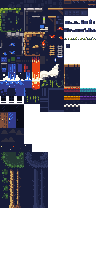
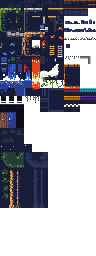
update gdx test to render background iamge

diff --git a/samples/src/main/kotlin/com/lehaine/samples/GdxTest.kt b/samples/src/main/kotlin/com/lehaine/samples/GdxTest.kt
@@ -10,9 +10,12 @@ import com.badlogic.gdx.graphics.GL20
 import com.badlogic.gdx.graphics.OrthographicCamera
 import com.badlogic.gdx.graphics.Texture
 import com.badlogic.gdx.graphics.g2d.SpriteBatch
+import com.badlogic.gdx.graphics.g2d.TextureRegion
 import com.badlogic.gdx.graphics.glutils.ShapeRenderer
+import com.badlogic.gdx.math.Vector2
 import com.badlogic.gdx.utils.viewport.FitViewport
 import com.lehaine.ldtk.LayerIntGrid
+import com.lehaine.ldtk.Level
 
 class GdxApp : ApplicationListener {
 
@@ -24,9 +27,18 @@ class GdxApp : ApplicationListener {
     private lateinit var viewport: FitViewport
     private val world = World()
     private val unitTestWorld = UnitTestWorld()
-    private val worldLevel = world.allLevels[0]
-    private val unitTestWorldLevel = unitTestWorld.allLevels[0]
+
+    private var currentWorldIdx = 0
+    private var worldBgImage: TextureRegion? = null
+    private lateinit var worldLevel: World.WorldLevel
+
+    private var currentUnitTestWorldIdx = 0
+    private var unitTWorldBgImage: TextureRegion? = null
+    private lateinit var unitTestWorldLevel: UnitTestWorld.UnitTestWorldLevel
     private var showWorld = true
+
+    private val velocity = Vector2()
+    private val speed = 5f
 
     override fun create() {
         spriteBatch = SpriteBatch()
@@ -35,7 +47,7 @@ class GdxApp : ApplicationListener {
         unitTestWorldTiles = Texture(Gdx.files.internal("Minecraft_texture_pack.gif"))
         camera = OrthographicCamera()
         viewport = PixelPerfectViewport(480f, 270f, camera)
-        camera.translate(worldLevel.pxWidth / 2f, worldLevel.pxHeight / -2f + 20f)
+        loadLevel(currentWorldIdx)
     }
 
     override fun resize(width: Int, height: Int) {
@@ -47,28 +59,148 @@ class GdxApp : ApplicationListener {
         val bgColor = Color.valueOf(bgColorHex)
         Gdx.gl.glClearColor(bgColor.r, bgColor.g, bgColor.b, bgColor.a)
         Gdx.gl.glClear(GL20.GL_COLOR_BUFFER_BIT)
-        if (Gdx.input.isKeyJustPressed(Input.Keys.S)) {
+        if (Gdx.input.isKeyJustPressed(Input.Keys.ENTER)) {
             showWorld = !showWorld
+            if (showWorld) {
+                loadLevel(currentWorldIdx)
+            } else {
+                loadLevel(currentUnitTestWorldIdx)
+            }
         }
+        if (Gdx.input.isKeyJustPressed(Input.Keys.NUM_1)) {
+            loadLevel(0)
+        }
+        if (Gdx.input.isKeyJustPressed(Input.Keys.NUM_2)) {
+            loadLevel(1)
+        }
+        if (Gdx.input.isKeyJustPressed(Input.Keys.NUM_3)) {
+            loadLevel(2)
+        }
+        if (Gdx.input.isKeyJustPressed(Input.Keys.NUM_4)) {
+            loadLevel(3)
+        }
+
+        velocity.setZero()
+
+        if (Gdx.input.isKeyPressed(Input.Keys.W)) {
+            velocity.y = speed
+        } else if (Gdx.input.isKeyPressed(Input.Keys.S)) {
+            velocity.y = -speed
+        }
+
+        if (Gdx.input.isKeyPressed(Input.Keys.D)) {
+            velocity.x = speed
+        } else if (Gdx.input.isKeyPressed(Input.Keys.A)) {
+            velocity.x = -speed
+        }
+        camera.translate(velocity)
+
         camera.update()
         spriteBatch.projectionMatrix = camera.combined
         shapeRenderer.projectionMatrix = camera.combined
         if (showWorld) {
             spriteBatch.begin()
-            worldLevel.layerCavern_background.render(spriteBatch, worldTiles)
-            worldLevel.layerCollisions.render(spriteBatch, worldTiles)
-            worldLevel.layerCustom_tiles.render(spriteBatch, worldTiles)
+            renderBgImage(spriteBatch, worldLevel)
+            worldLevel.layerCavern_background.render(spriteBatch, worldTiles, worldLevel.pxHeight)
+            worldLevel.layerCollisions.render(spriteBatch, worldTiles, worldLevel.pxHeight)
+            worldLevel.layerCustom_tiles.render(spriteBatch, worldTiles, worldLevel.pxHeight)
             spriteBatch.end()
         } else {
-            shapeRenderer.begin(ShapeRenderer.ShapeType.Filled)
-            renderIntGrid(shapeRenderer, unitTestWorldLevel.layerIntGrid8)
-            renderIntGrid(shapeRenderer, unitTestWorldLevel.layerIntGridTest)
-            shapeRenderer.end()
+//            shapeRenderer.begin(ShapeRenderer.ShapeType.Filled)
+//            renderIntGrid(shapeRenderer, unitTestWorldLevel.layerIntGrid8)
+//            renderIntGrid(shapeRenderer, unitTestWorldLevel.layerIntGridTest)
+//            shapeRenderer.end()
             spriteBatch.begin()
-            unitTestWorldLevel.layerTileTest.render(spriteBatch, unitTestWorldTiles)
-            unitTestWorldLevel.layerPure_AutoLayer.render(spriteBatch, worldTiles)
-            unitTestWorldLevel.layerIntGrid_AutoLayer.render(spriteBatch, worldTiles)
+            unitTestWorldLevel.layerTileTest.render(spriteBatch, unitTestWorldTiles, unitTestWorldLevel.pxHeight)
+            unitTestWorldLevel.layerPure_AutoLayer.render(spriteBatch, worldTiles, unitTestWorldLevel.pxHeight)
+            unitTestWorldLevel.layerIntGrid_AutoLayer.render(spriteBatch, worldTiles, unitTestWorldLevel.pxHeight)
             spriteBatch.end()
+        }
+    }
+
+    private fun loadLevel(levelIdx: Int) {
+        if (showWorld) {
+            if (levelIdx <= world.allLevels.size - 1) {
+                worldLevel = world.allLevels[levelIdx]
+                if (worldLevel.hasBgImage) {
+                    worldBgImage?.texture?.dispose()
+                    val crop = worldLevel.bgImageInfos!!.cropRect
+                    worldBgImage = TextureRegion(
+                        Texture(Gdx.files.internal(worldLevel.bgImageInfos!!.relFilePath))
+                    ).apply {
+                        setRegion(crop.x.toInt(), crop.y.toInt(), crop.w.toInt(), crop.h.toInt())
+                    }
+                }
+            }
+            camera.position.set(worldLevel.pxWidth / 2f, worldLevel.pxHeight / 2f + 20f, camera.position.z)
+        } else {
+            if (levelIdx <= unitTestWorld.allLevels.size - 1) {
+                unitTestWorldLevel = unitTestWorld.allLevels[levelIdx]
+                if (unitTestWorldLevel.hasBgImage) {
+                    unitTWorldBgImage?.texture?.dispose()
+                    val crop = unitTestWorldLevel.bgImageInfos!!.cropRect
+                    unitTWorldBgImage = TextureRegion(
+                        Texture(Gdx.files.internal(unitTestWorldLevel.bgImageInfos!!.relFilePath))
+                    ).apply {
+                        setRegion(crop.x, texture.height - crop.y, crop.w, crop.h)
+                    }
+                }
+            }
+            camera.position.set(
+                unitTestWorldLevel.pxWidth / 2f,
+                unitTestWorldLevel.pxHeight / 2f + 20f,
+                camera.position.z
+            )
+        }
+    }
+
+    private fun renderBgImage(spriteBatch: SpriteBatch, level: Level) {
+        level.bgImageInfos?.let { bgImageInfo ->
+            val bgTexture = if (showWorld) worldBgImage else unitTWorldBgImage
+            bgTexture?.let {
+//                spriteBatch.draw(
+//                    it,
+//                    bgImageInfo.topLeftX.toFloat(),
+//                    bgImageInfo.topLeftY.toFloat() - bgImageInfo.cropRect.h, // need to move down due to differing coord systems
+//                    0f,
+//                    0f,
+//                    it.regionWidth.toFloat(),
+//                    it.regionHeight.toFloat(),
+//                    bgImageInfo.scaleX,
+//                    bgImageInfo.scaleY,
+//                    0f
+                //       )
+
+//                spriteBatch.draw(
+//                    it.texture,
+//                    bgImageInfo.topLeftX.toFloat(),
+//                    bgImageInfo.topLeftY.toFloat() - bgImageInfo.cropRect.h, // need to move down due to differing coord systems
+//                    it.regionWidth.toFloat(),
+//                    it.regionHeight.toFloat(),
+//                    it.u,
+//                    it.v,
+//                    it.u2,
+//                    it.v2)
+
+                spriteBatch.draw(
+                    it.texture,
+                    bgImageInfo.topLeftX.toFloat(),
+                    bgImageInfo.topLeftY.toFloat(),
+                    0f,
+                    0f,
+                    it.regionWidth.toFloat(),
+                    it.regionHeight.toFloat(),
+                    bgImageInfo.scaleX,
+                    bgImageInfo.scaleY,
+                    0f,
+                    it.regionX,
+                    it.regionY,
+                    it.regionWidth,
+                    it.regionHeight,
+                    false,
+                    false
+                )
+            }
         }
     }
 

diff --git a/ldtk-api/src/main/kotlin/com/lehaine/ldtk/Level.kt b/ldtk-api/src/main/kotlin/com/lehaine/ldtk/Level.kt
@@ -32,7 +32,7 @@ open class Level(val classPath: String, val project: Project, val json: LevelJso
     data class LevelBgImage(
         val relFilePath: String,
         val topLeftX: Int,
-        val topRightY: Int,
+        val topLeftY: Int,
         val scaleX: Float,
         val scaleY: Float,
         val cropRect: CropRect
@@ -60,7 +60,7 @@ open class Level(val classPath: String, val project: Project, val json: LevelJso
         LevelBgImage(
             relFilePath = json.bgRelPath,
             topLeftX = json.__bgPos.topLeftPx[0],
-            topRightY = json.__bgPos.topLeftPx[1],
+            topLeftY = json.__bgPos.topLeftPx[1],
             scaleX = json.__bgPos.scale[0],
             scaleY = json.__bgPos.scale[1],
             cropRect = CropRect(
@@ -117,7 +117,7 @@ open class Level(val classPath: String, val project: Project, val json: LevelJso
             LevelBgImage(
                 relFilePath = json.bgRelPath,
                 topLeftX = json.__bgPos.topLeftPx[0],
-                topRightY = json.__bgPos.topLeftPx[1],
+                topLeftY = json.__bgPos.topLeftPx[1],
                 scaleX = json.__bgPos.scale[0],
                 scaleY = json.__bgPos.scale[1],
                 cropRect = CropRect(

diff --git a/libgdx-backend/src/main/kotlin/com/lehaine/gdx/GdxLayerTiles.kt b/libgdx-backend/src/main/kotlin/com/lehaine/gdx/GdxLayerTiles.kt
@@ -9,7 +9,7 @@ import com.lehaine.ldtk.TilesetDefJson
 
 open class GdxLayerTiles(tilesetDefJson: TilesetDefJson, json: LayerInstanceJson) : LayerTiles(tilesetDefJson, json) {
 
-    fun render(batch: Batch, tilesTexture: Texture) {
+    fun render(batch: Batch, tilesTexture: Texture, pixelHeight:Int) {
         val tileset = getTileset() as? GdxTileset ?: error("Unable to load tileset for $identifier layer!")
 
         val tiles = TextureRegion.split(tilesTexture, tileset.tileGridSize, tileset.tileGridSize)
@@ -24,7 +24,7 @@ open class GdxLayerTiles(tilesetDefJson: TilesetDefJson, json: LayerInstanceJson
                             batch.draw(
                                 it.region.texture,
                                 (cx * gridSize + pxTotalOffsetX).toFloat(),
-                                -(cy * gridSize + pxTotalOffsetY).toFloat(), // LDtk is y-down, so invert it
+                                -(cy * gridSize + pxTotalOffsetY - pixelHeight).toFloat(), // LDtk is y-down, so invert it
                                 0f,
                                 0f,
                                 gridSize.toFloat(),

diff --git a/libgdx-backend/src/main/kotlin/com/lehaine/gdx/GdxLayerIntGridAutoLayer.kt b/libgdx-backend/src/main/kotlin/com/lehaine/gdx/GdxLayerIntGridAutoLayer.kt
@@ -14,7 +14,7 @@ open class GdxLayerIntGridAutoLayer(
 ) : LayerIntGridAutoLayer(tilesetDefJson, intGridValues, json) {
 
 
-    fun render(batch: Batch, tilesTexture: Texture) {
+    fun render(batch: Batch, tilesTexture: Texture, pixelHeight:Int) {
         val tileset = getTileset() as? GdxTileset ?: error("Unable to load tileset for $identifier layer!")
 
         val tiles = TextureRegion.split(tilesTexture, tileset.tileGridSize, tileset.tileGridSize)
@@ -24,7 +24,7 @@ open class GdxLayerIntGridAutoLayer(
                 batch.draw(
                     it.region.texture,
                     (autoTile.renderX + pxTotalOffsetX).toFloat(),
-                    -(autoTile.renderY + pxTotalOffsetY).toFloat(), // LDtk is y-down, so invert it
+                    -(autoTile.renderY + pxTotalOffsetY - pixelHeight).toFloat(), // LDtk is y-down, so invert it
                     0f,
                     0f,
                     gridSize.toFloat(),

diff --git a/libgdx-backend/src/main/kotlin/com/lehaine/gdx/GdxLayerAutoLayer.kt b/libgdx-backend/src/main/kotlin/com/lehaine/gdx/GdxLayerAutoLayer.kt
@@ -15,7 +15,7 @@ open class GdxLayerAutoLayer(
     json
 ) {
 
-    fun render(batch: Batch, tilesTexture: Texture) {
+    fun render(batch: Batch, tilesTexture: Texture, pixelHeight:Int) {
         val tileset = getTileset() as? GdxTileset ?: error("Unable to load tileset for $identifier layer!")
 
         val tiles = TextureRegion.split(tilesTexture, tileset.tileGridSize, tileset.tileGridSize)
@@ -25,7 +25,7 @@ open class GdxLayerAutoLayer(
                 batch.draw(
                     it.region.texture,
                     (autoTile.renderX + pxTotalOffsetX).toFloat(),
-                    -(autoTile.renderY + pxTotalOffsetY).toFloat(), // LDtk is y-down, so invert it
+                    -(autoTile.renderY + pxTotalOffsetY - pixelHeight).toFloat(), // LDtk is y-down, so invert it
                     0f,
                     0f,
                     gridSize.toFloat(),
